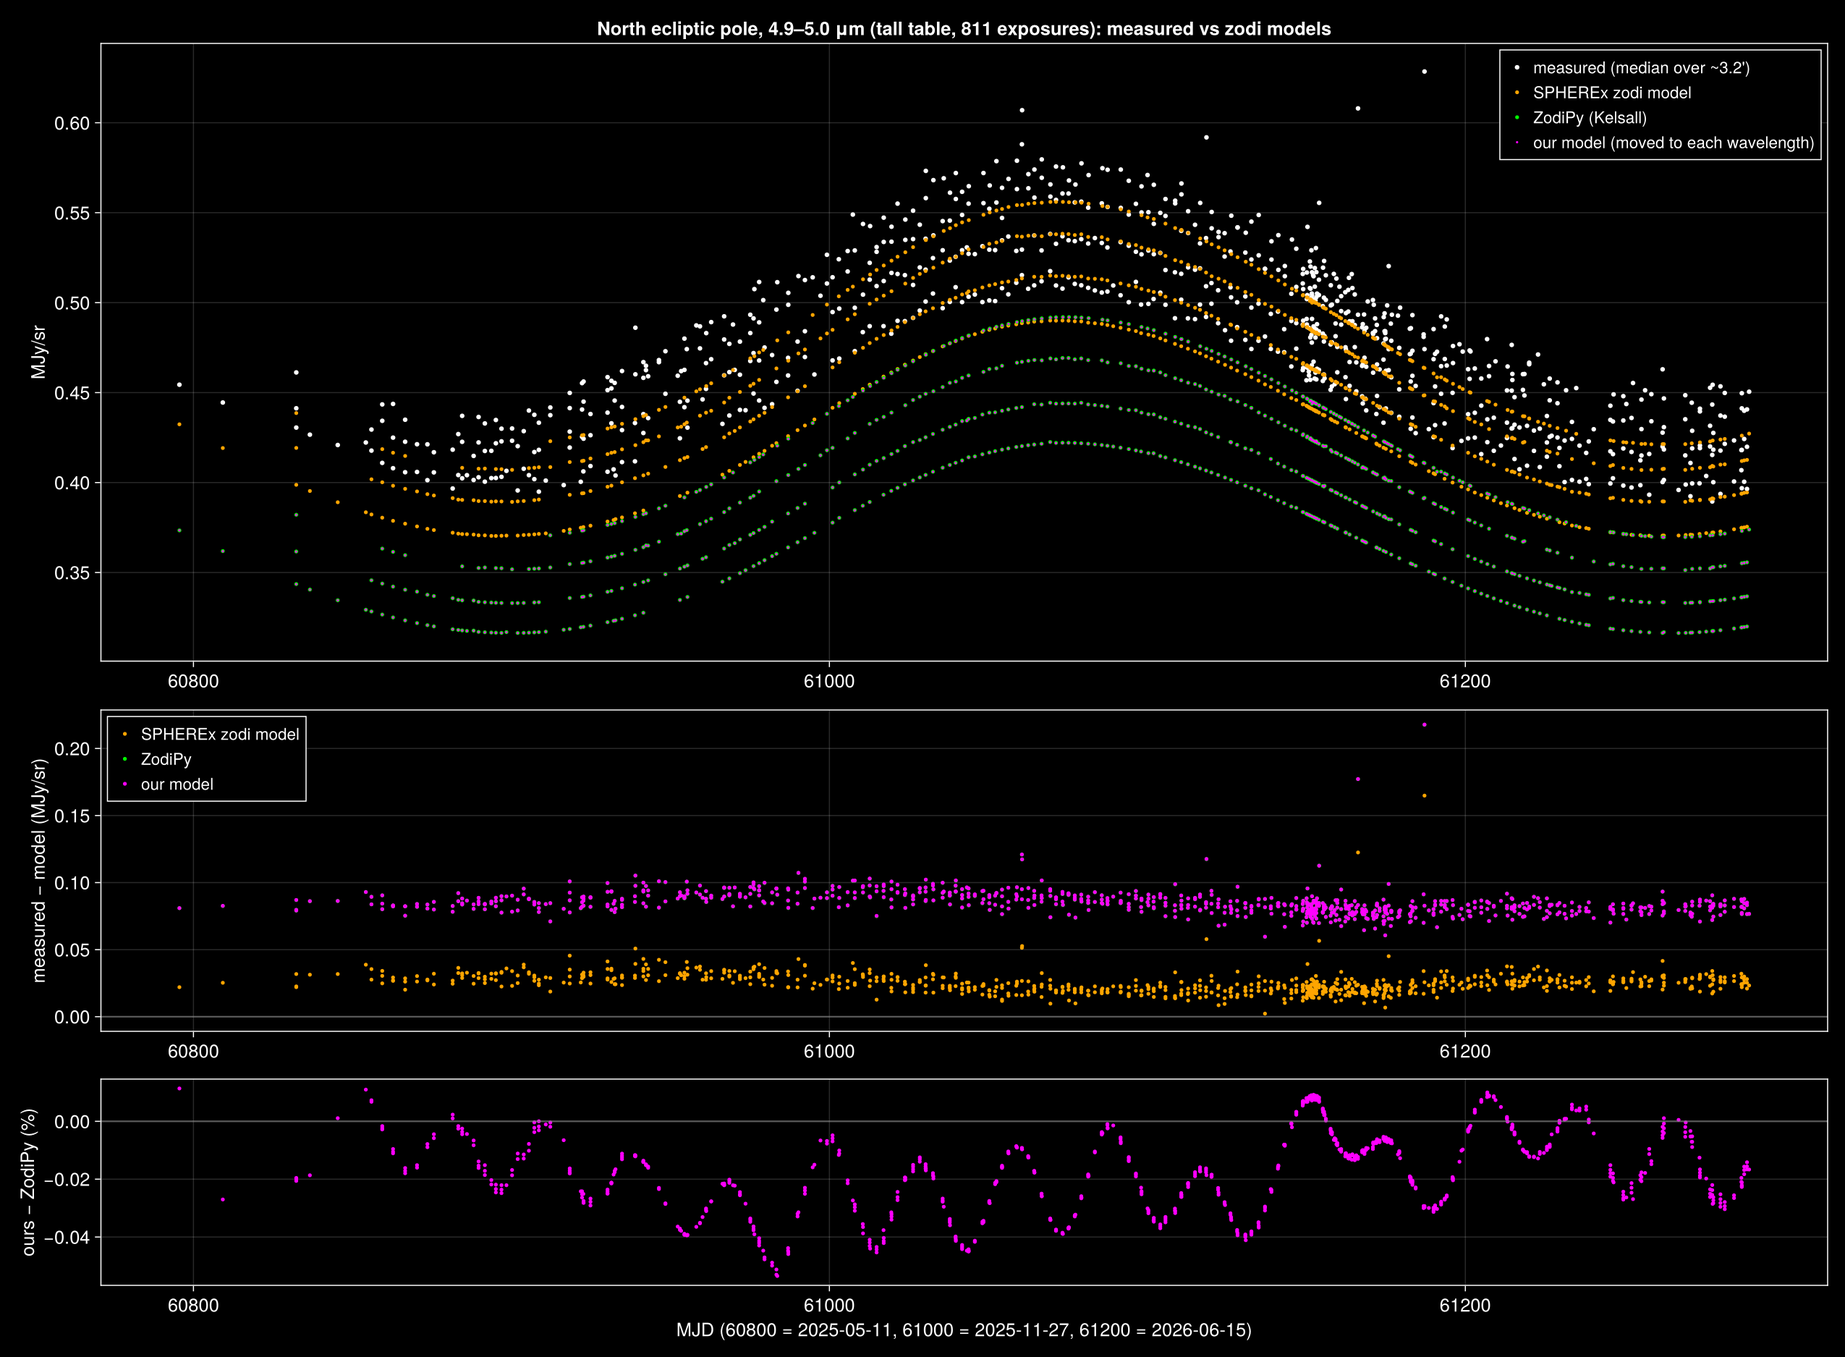
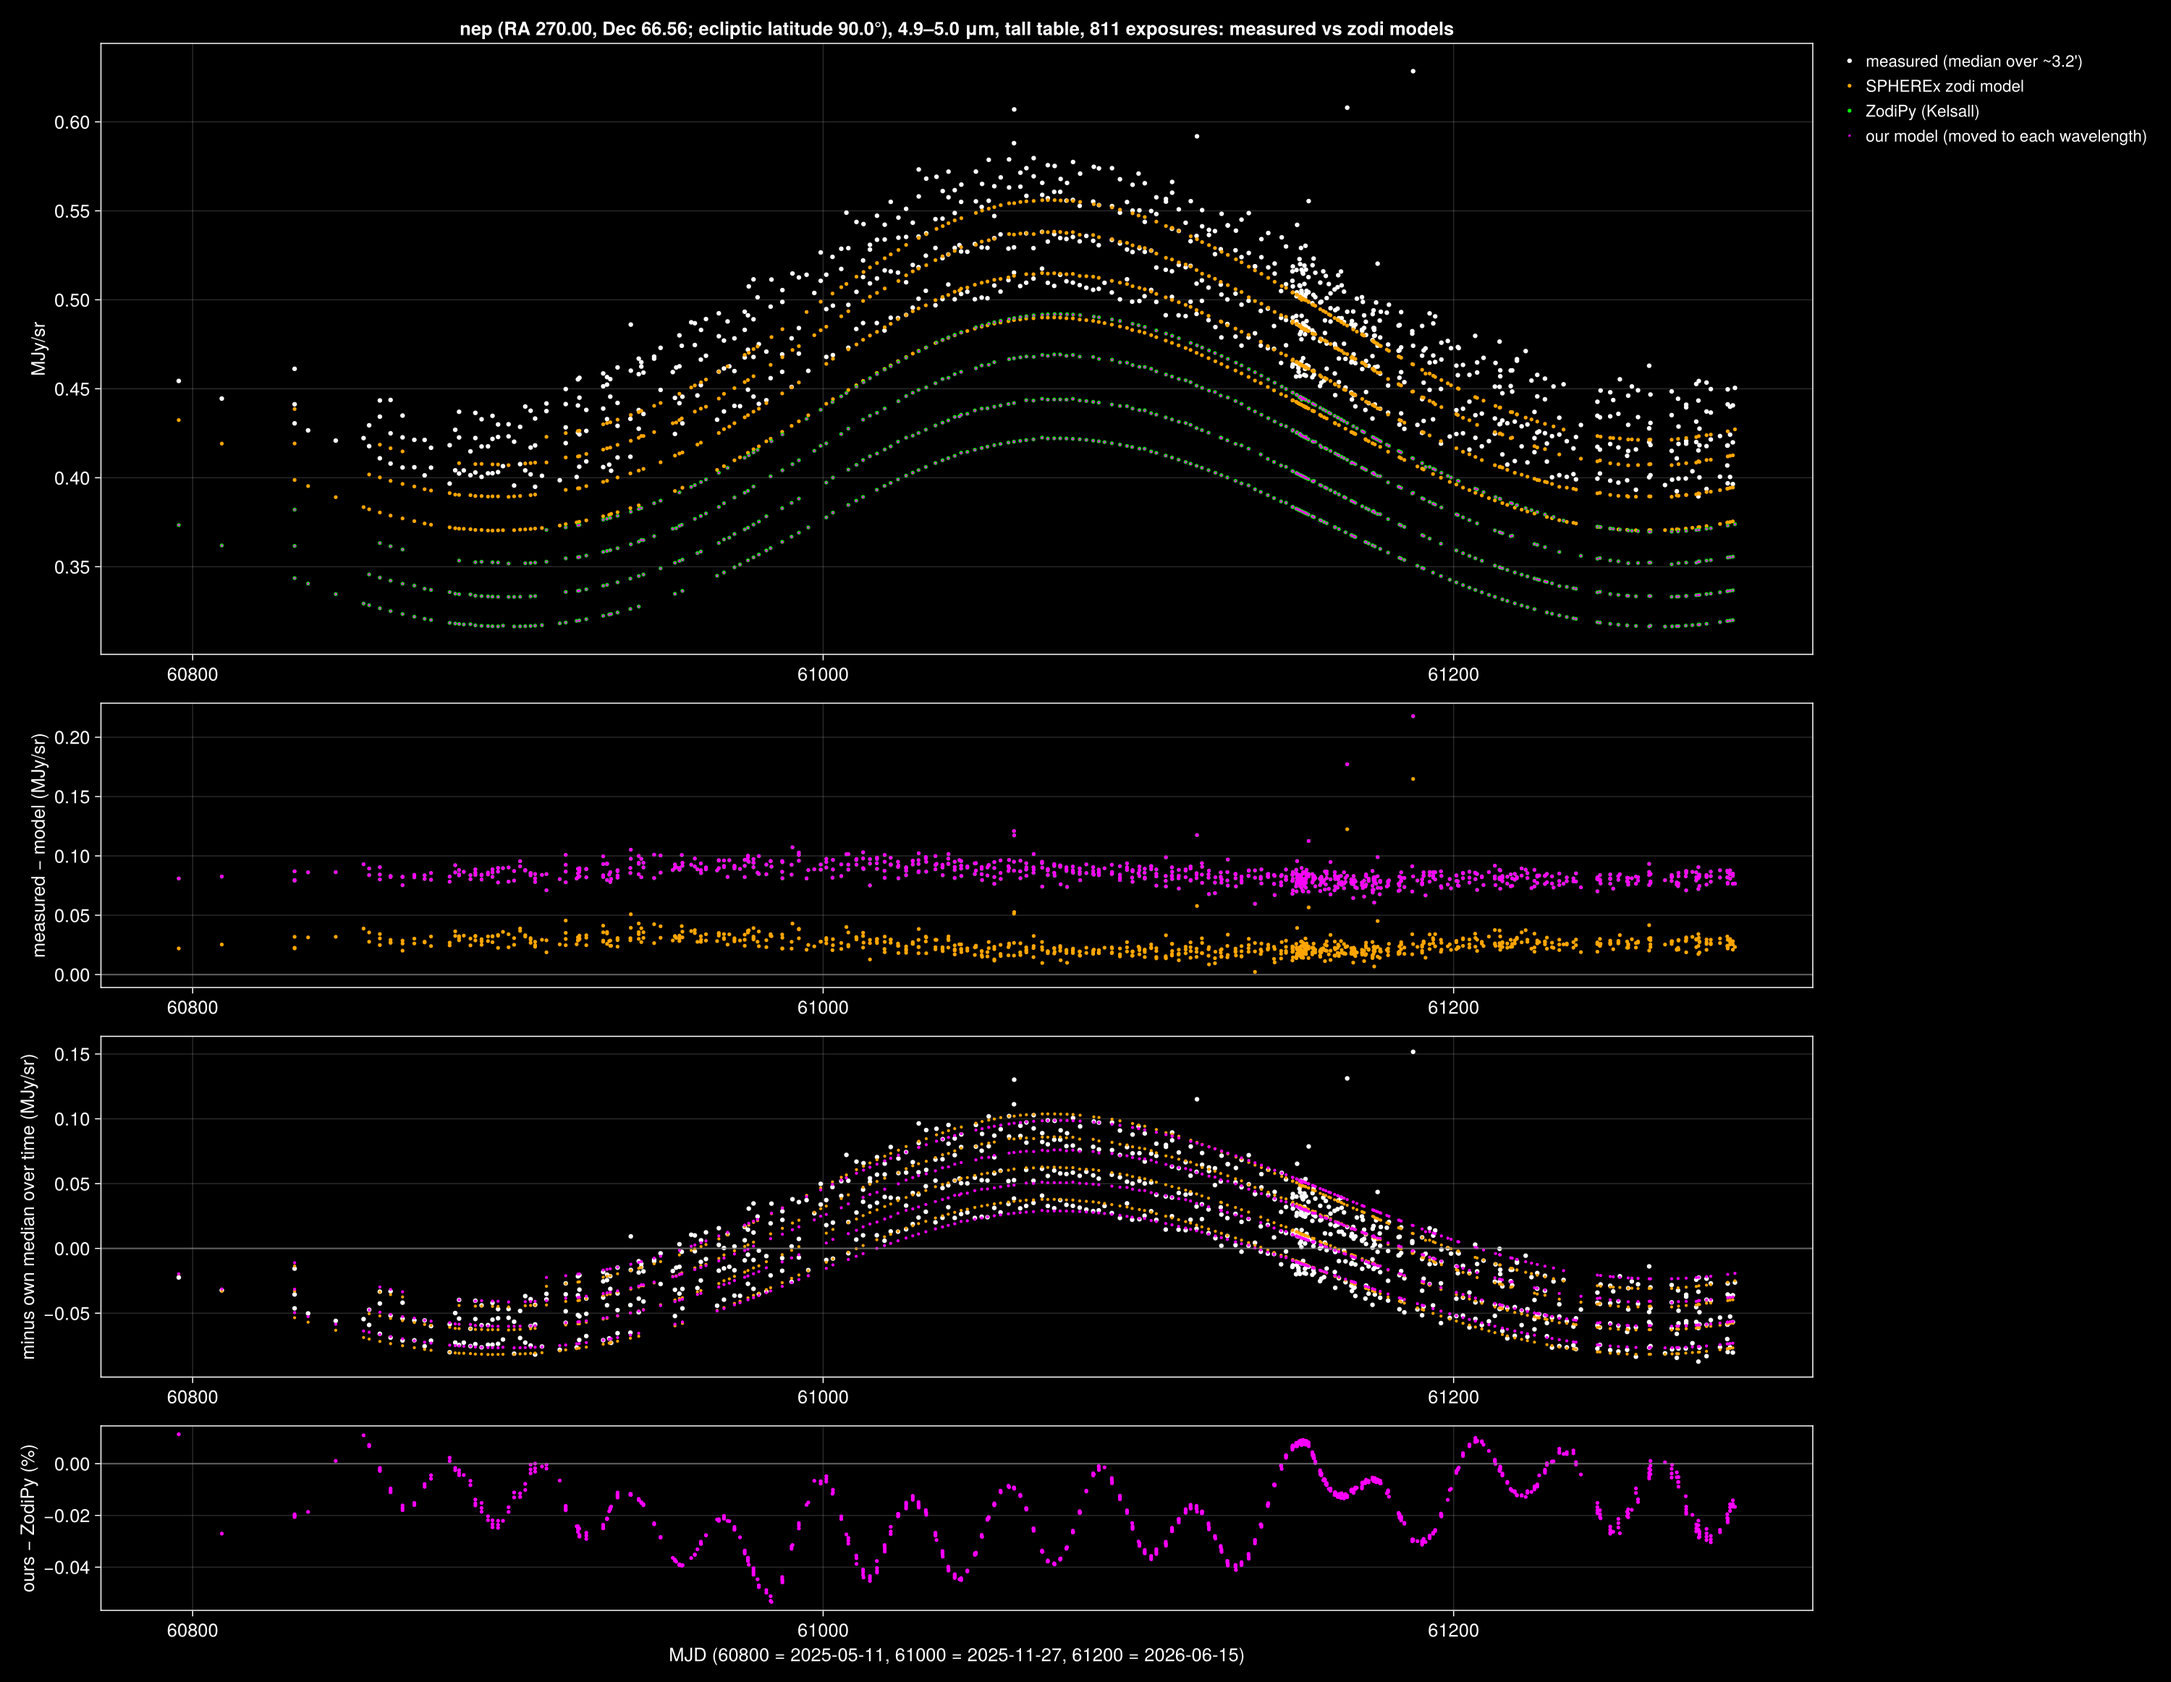
Week 13 binning: four 0.23 deg HEALPix patches from the tall table vs our model
Server-side median per exposure (NEP 1020, SEP 808, 30 deg above the ecliptic 27, ecliptic lon 45 deg 19 exposures).
Our model = ZodiPy to 0.01-0.03% on real geometry. Measured = (0.93-1.09) x ours + (0.075-0.165) MJy/sr; after
subtracting each series' median over time the time-variable part matches (amplitudes within 0-10%). The offset is
larger on the ecliptic. Legend moved outside the panels (it hid points).

Claude-Session: https://claude.ai/code/session_012rGthNAyzBgnDfYXWSYd8K

diff --git a/realdata/talltable_zodipy.py b/realdata/talltable_zodipy.py
@@ -4,6 +4,7 @@ each exposure's wavelength with ZodiPy's spectral shape: ours(lambda) = ours(5.0
 Observer = Earth (SPHEREx is ~7000 km away; negligible), as in realdata/extract_frames.py.
 
     python -I realdata/talltable_zodipy.py data/spherex_real/tt_nep_per_image.csv [RA Dec]   (zodipy env)
+    (also takes the binned tables of realdata/talltable_bins.py, with the patch centre's RA Dec)
     → adds columns zodipy_lam, zodipy_5um → <input>_zodipy.csv
 """
 import csv, sys
@@ -16,6 +17,9 @@ import zodipy
 src = sys.argv[1]
 RA0, DEC0 = (float(sys.argv[2]), float(sys.argv[3])) if len(sys.argv) > 3 else (270.0, 66.560708)
 rows = list(csv.DictReader(open(src)))
+for r in rows:                     # the binned tables (realdata/talltable_bins.py) have t_beg/t_end and "wavelength"
+    r.setdefault("t_mid_mjd", f"{0.5 * (float(r['t_beg']) + float(r['t_end'])):.6f}")
+    r.setdefault("wavelength_median", r.get("wavelength", ""))
 mjd = np.array([float(r["t_mid_mjd"]) for r in rows]); lam = np.array([float(r["wavelength_median"]) for r in rows])
 
 

diff --git a/STATUS.md b/STATUS.md
@@ -205,7 +205,16 @@ is coming to the HPC). First query works (client in ~/envs/talltable on Discover
 realdata/talltable_pole.py, north ecliptic pole 4.9–5.0 μm → 811 exposures (May 2025 – Sep 2026). It matches our
 qr3 cutouts (flux −0.4%, zodi −0.02%) but not our older qr2 cutouts (−7% flux, +13% zodi): the tall table has the
 newer calibration, so earlier qr2-based real-data numbers (e.g. SPHEREx zodi vs ZodiPy) need redoing with it.
-Figure figures/11042026_talltable_nep.png (realdata/compare_talltable_nep.jl). More tasks from the Nov 3 meeting coming from the user. Other options: best-epoch selection with a
+Figure figures/11042026_talltable_nep.png (realdata/compare_talltable_nep.jl).
+**Our model on real data** (realdata/talltable_ours.jl; geometry from the nearest simulated exposure, ~1 min; wavelength
+moved from 5.0 μm with ZodiPy's spectral shape, talltable_zodipy.py): it equals ZodiPy to 0.01–0.03% at every exposure.
+Week 13 binning (realdata/talltable_bins.py: server-side median per exposure over a 0.23° HEALPix level-8 patch):
+measured = a·ours + b with a = 1.02 (NEP, 1020 exp.), 0.93 (SEP, 808), 1.09 (30° above ecliptic, 27), 1.03 (ecliptic
+λ 45°, 19) and b = +0.076/+0.113/+0.075/+0.165 MJy/sr. After subtracting each series' median over time, the time-variable
+part matches: amplitude measured vs ours 0.148/0.144, 0.063/0.061, 0.356/0.320, 0.348/0.348 MJy/sr; residual
+scatter 0.005–0.010 MJy/sr (1–2.5%). Kelsall's TIME variation is right to ~0–10%; real sky = Kelsall + ~0.08–0.17 MJy/sr
+offset that is larger on the ecliptic (so not only a fixed extragalactic background). Figures
+figures/11042026_talltable_{nep,L8_nep,L8_sep,L8_b30l210,L8_ecl045}_ours.png. More tasks from the Nov 3 meeting coming from the user. Other options: best-epoch selection with a
 validation window whose orbital phase repeats (code exists: val_tranges + keep_best); per-band radial profile (inner cutoff + ~1/R falloff, as in ZodiPy) instead of one
 effective R; one-at-a-time ablation table; Earth-centric terms + star masking on real SPHEREx data (masking only when the
 user says so).
